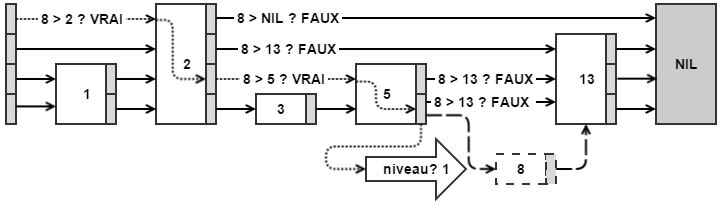
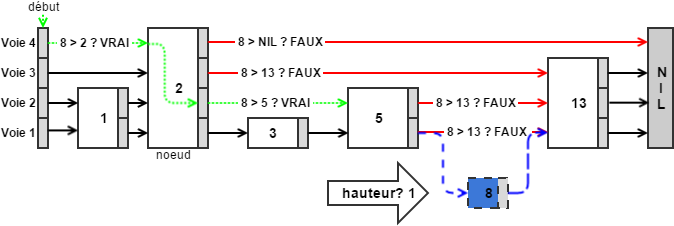
illustration

Changed region(s): [[0.0, 0.0, 1.0, 0.9951], [0.6543, 0.6439, 0.6855, 0.6732]]

diff --git a/SkipList/Rapport.tex b/SkipList/Rapport.tex
@@ -10,6 +10,7 @@
 \usepackage{svg}
 \usepackage{cleveref}
 \usepackage{subfig}
+\usepackage{gensymb}
 \usepackage[titletoc,title]{appendix}
 \lstset{language=C,rangeprefix=//---------------,rangesuffix=----------------,includerangemarker=false,columns=spaceflexible,extendedchars=true,showspaces=false,showstringspaces=false,inputencoding=ansinew,tabsize=4,frame=shadowbox,morecomment=[is]{\#ifdef}{\#endif},morecomment=[is]{/*}{*/}}
 \title{Lecture et rédaction scientifiques: \\Skip-lists }
@@ -23,7 +24,7 @@
 	\newpage
 	
 	\section{Introduction}
-	En informatique, il est courant de vouloir enregistrer des données quelconques. Une structure de données est une représentation logique de ces données. La manière de représenter les données permet de résoudre  différents problèmes. Une structure précise peut être plus performante pour un cas précis ou, au contraire, être une très peu performante. D'autre part, une bonne structure de données peut aussi réduire de façon significative la complexité d'un algorithme.
+	En informatique, il est courant de vouloir enregistrer des données quelconques. Une structure de données est une représentation logique de ces données. La manière de représenter les données permet de résoudre  différents problèmes. Une structure précise peut être plus performante pour un cas précis ou, au contraire, être très peu performante. D'autre part, une bonne structure de données peut aussi réduire de façon significative la complexité d'un algorithme.
 	
 	Il existe un grand nombre de structures de données, toutes proposent aux concepteurs de logiciel deux fonctionnalités standards: enregistrer et récupérer une donnée. Selon l'approche employée pour la représentation logique, les performances seront différentes. Certaines structures de données offrent la possibilité de récupérer le premier élément en temps constant, au détriment du temps d'accès aux autres éléments. Alors que d'autres permettent un accès en temps constant à chacun des éléments en dépit d'une durée plus longue pour l'insertion d'un élément.
 	
@@ -57,18 +58,29 @@
 		}
 		\caption{Différente structures de données}
 	\end{figure}
+	\begin{figure}
+		\includegraphics[width=\textwidth]{img/skip}
+		\caption{Skip-list}
+		\label{skip}
+	\end{figure}
 	
 	\newpage
 	\subsection{Skip-List}
-	Tout comme un dictionnaire, une skip-list permet de récupérer la définition d'un terme recherché \textit{(dit clé)}. Cette recherche est rapide, car les éléments présents dans un dictionnaire sont triés et il est possible de commencer une exploration plus approfondie à un endroit précis.
-	 Une skip-list bénéficie des avantages de la liste chainée, en limitant fortement ses inconvénients. Cette structure de données utilise les chaines de façon parallèle. Une fonction basée sur des probabilités permet de déterminer la hauteur de la chaine. Plus cette hauteur est élevé, moins la liste contient d'éléments. Une couche haute est donc un accès plus rapide vers des éléments plus loin dans la liste.
-	 
-	 \begin{figure}[h]
-	 	\includegraphics[width=\textwidth]{img/skip}
-	 	\caption{Skip-list}
-	 	\label{skip}
-	 \end{figure}
-	 
+	
+	
+	Tout comme un dictionnaire, une skip-list permet de récupérer la définition d'un terme recherché \textit{(dit clé)}. Cette recherche est rapide, car les éléments \textit{(dit nœud)} présents dans un dictionnaire sont triés et il est possible de commencer une exploration plus approfondie à un endroit précis.
+	Une skip-list bénéficie des avantages de la liste chainée, en limitant fortement ses inconvénients. Cette structure de données utilise les chaines de façon parallèle. Une fonction basée sur des probabilités permet de déterminer la hauteur de la chaine. Plus cette hauteur est élevé, moins la liste contient d'éléments. Une couche haute est donc un accès plus rapide vers des éléments plus loin dans la liste.
+	
+	
+	
+	Afin d'illustrer la skip-liste, il faut l'imaginer comme un réseau de transport en commun idéal où le temps d'attente des correspondances sont nuls. Un nœud dans la skip-liste est un arrêt obligatoire dans lequel un passager peut changer de moyen de locomotion. La couche la plus basse dans la skip-liste peut-être interprétée comme un bus. Il s'arrête à chacun de ses arrêts prévus, son temps de parcours est très lent. La couche n\degree2, plus rapide, est un métro. La couche n\degree3, un train. Si un passager souhaite aller voir un concert à Bruxelles alors qu'il est à la gare de Charleroi, il ne va pas faire le trajet en bus. Il est tout naturel et plus rapide dans ce cas de prendre dans un premier temps le train, puis le métro afin qu'il se rapproche le plus près possible du concert. Si le dernier arrêt de métro n'a pas permis d'accéder à la salle du concert, seulement dans ce cas le passager doit emprunter le bus.
+	
+	\begin{figure}[h!]
+		\includegraphics[width=\textwidth]{img/metaphore}
+		\caption{Métaphore d'une skip-liste par un réseau de transport en commun}
+		\label{skip-meta}
+	\end{figure}
+	
 	\subsubsection*{Définition}
 	La hauteur maximale d'une skip-list est définie lors de sa création. Bien qu'il n'y ait pas de taille maximale d'une skip-list, il est conseillé d'utiliser $log_2(n)$ où $n$ est le nombre d'éléments théoriques présents dans la liste.
 	
@@ -78,7 +90,7 @@
 		
 	Le parcours d'une skip-list se fait de haut en bas, et de gauche à droite. Si la clé de l'élément suivant sur une couche est plus grande que celle qu'on recherche, celle-ci continue sur une voie inférieure.	
 	
-	\begin{figure}
+	\begin{figure}[h]
 		\includegraphics[width=\textwidth]{img/struct}
 		\caption{Structure d'une skip-list}
 		\label{StructSkip}
@@ -166,7 +178,7 @@
 	\begin{enumerate}
 		\item Commencer l'exploration de la liste par l'élément en tête, et se positionner sur la plus haute voie.
 		\item Sur la voie actuelle, regarder la clé de l'élément suivant.
-		\item Si elle est plus grande et qu'il existe une voie inférieure, marquer ce nœud. Puis, descendre d'une voie.
+		\item Si elle est plus grande et qu'il existe une voie inférieure, marquer ce pointeur. Puis, descendre d'une voie.
 		\item Sinon aller en 2.
 		\item Si la clé de l'élément suivant correspond à celle qui est recherchée: modifier la valeur de l'élément par celle de la valeur à insérer. \textbf{FIN}.
 		\item Sinon, appeler la fonction de probabilité pour récupérer sa valeur $n$.
@@ -178,10 +190,50 @@
 		\item \textbf{FIN}.
 	\end{enumerate}
 	\emph{L'algorithme écrit en langage C est présenté en annexe \ref{SKInsert}.}
+	
+	\newpage
+	\subsubsection{Exemples}	
+	\paragraph*{Comment insérer l'élément 8 dans \cref{SkipInsert1}?}
+	\begin{itemize}
+		\item Se positionner sur la couche la plus haute: La 4ème voie.
+		\item 8 est-il plus grand que 2 ? Oui, se positionner sur le nœud 2.
+		\item 8 est-il plus grand que $+\infty$ \textit{(NIL)}? Enregistrer ce lien en mémoire, puis descendre sur la 3ème voie.
+		\item 8 est-il plus grand que 13  ? Enregistrer ce lien en mémoire, puis descendre sur la 2ème voie.
+		\item 8 est-il plus grand que 5 ? Oui, se positionner sur le nœud 5.
+		\item 8 est-il plus grand que 13 ? Enregistrer ce lien en mémoire, puis descendre sur la 1ère voie.
+		\item 8 est-il plus grand que 8 ? Enregistrer ce lien en mémoire, Il n'existe a pas de voie plus basse.
+		\item 5 est le dernier nœud parcouru. L'élément suivant sur la voie 1 est 8. 8 est-il l'élément recherché? Non, on créer un nouvel élément. Générer une hauteur aléatoire: hauteur 1.
+		\item Ajouté un lien du nouvel élément 8 en voie 1. Ce lien doit pointer vers l'élément du lien enregistré à cette même voie. Il s'agit de l'élément 13.
+		\item Modifier ce lien enregistré en voie 1 (de l'élément 5 vers l'élément 13) pour qu'il pointe vers ce nouvel élément 8.
+		\item FIN.
+	\end{itemize}
 	\begin{figure}[h]
 		\includegraphics[width=\textwidth]{img/insert}
 		\caption{Insertion dans une skip-liste}
-		\label{SkipInsert}
+		\label{SkipInsert1}
+	\end{figure}
+	
+	\newpage
+	\paragraph*{Comment insérer l'élément 5 dans \cref{SkipInsert1}?}
+	\begin{itemize}
+		\item Se positionner sur la couche la plus haute: La 4ème voie.
+		\item 5 est-il plus grand que 2 ? Oui, se positionner sur le nœud 2.
+		\item 5 est-il plus grand que $+\infty$ \textit{(NIL)}? Enregistrer ce lien en mémoire, puis descendre sur la 3ème voie.
+		\item 5 est-il plus grand que 13 ? Enregistrer ce lien en mémoire, puis descendre sur la 2ème voie.
+		\item 5 est-il plus grand que 13 ? Enregistrer ce lien en mémoire, puis descendre sur la 1ère voie.
+		\item 5 est-il plus grand que 3 ? Oui, se positionner sur le nœud 3.
+		\item 5 est-il plus grand que 8 ? Enregistrer ce lien en mémoire, Il n'existe a pas de voie plus basse.
+		\item 5 est le dernier nœud parcouru. L'élément suivant sur la voie 1 est 8. 8 est-il l'élément recherché? Non, on créer un nouvel élément. Générer une hauteur aléatoire: hauteur 2.
+		\item Ajouté un lien du nouvel élément 5 en voie 1. Ce lien doit pointer vers l'élément du lien enregistré à cette même voie. Il s'agit de l'élément 8.
+		\item Modifier ce lien enregistré en voie 1 (de l'élément 3 vers l'élément 8) pour qu'il pointe vers ce nouvel élément 5.
+		\item Ajouté un lien du nouvel élément 5 en voie 2. Ce lien doit pointer vers l'élément du lien enregistré à cette même voie. Il s'agit de l'élément 13.
+		\item Modifier ce lien enregistré en voie 2 (de l'élément 2 vers l'élément 13) pour qu'il pointe vers ce nouvel élément 5.
+		\item FIN.
+	\end{itemize}
+	\begin{figure}[h]
+		\includegraphics[width=\textwidth]{img/insert2}
+		\caption{Insertion dans une skip-liste}
+		\label{SkipInsert2}
 	\end{figure}
 	
 	\newpage
